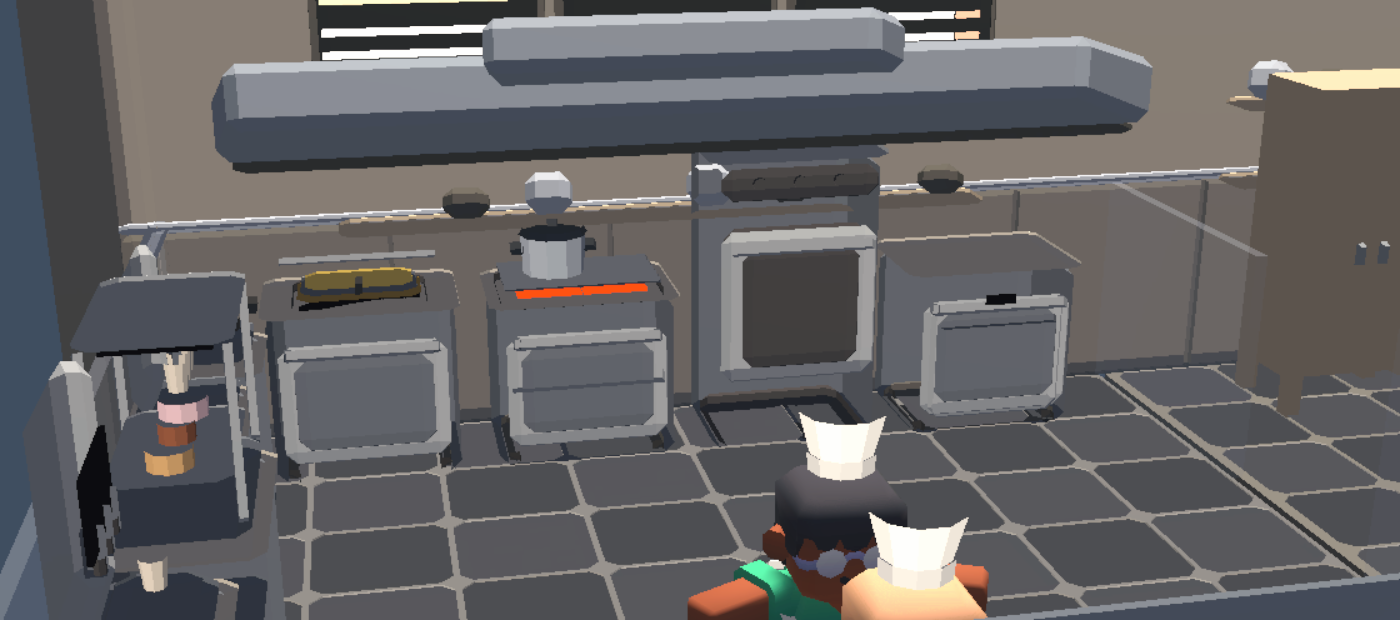
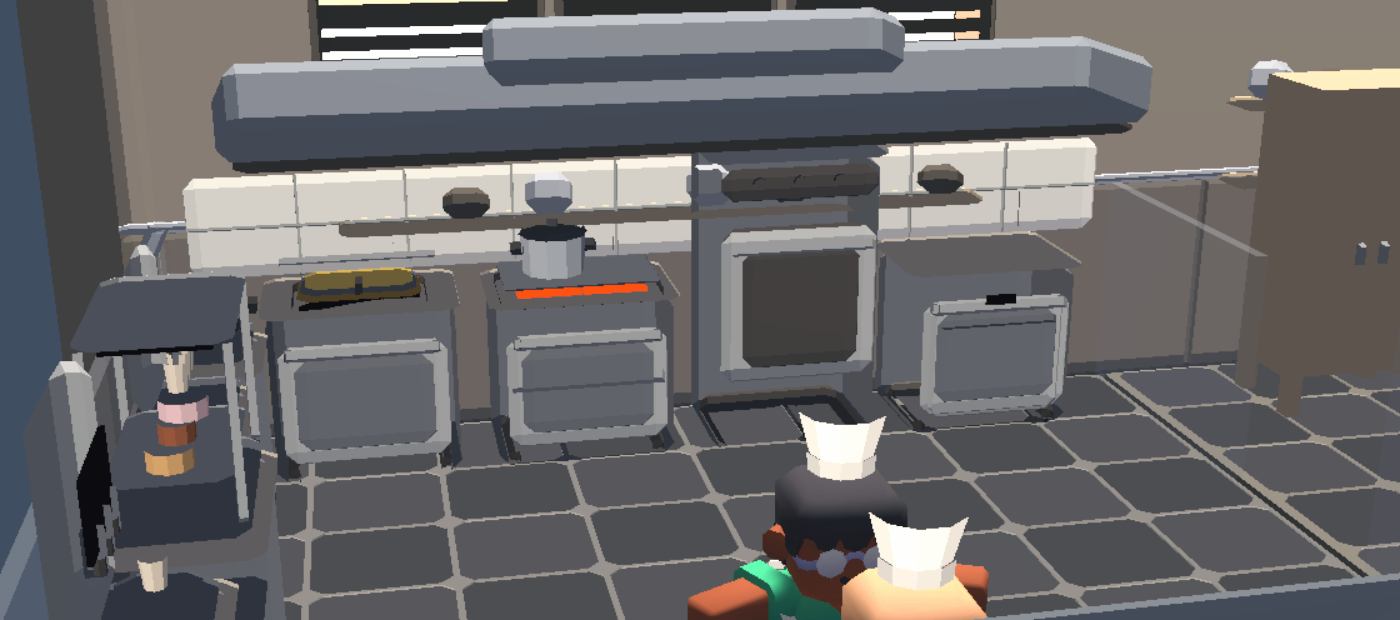
A cool appliance in front of a cool wall is one surface
docs/60 ended with the kitchen still the most monochrome room in the
building and named its own next step: the equipment is stainless in every
restaurant, so the thing that can separate the two kitchens is what stands
BEHIND it.

It also answers the defect that document ended on. The Turkish kitchen read
beautifully and the fast food one came back washed out WITH IDENTICAL
EQUIPMENT, because a cool grey appliance in front of a cool grey wall is one
surface - the Turkish room worked because its plaster and timber gave the
metal something to sit against. A tiled band behind the line gives the steel
an edge in both, and the two cuisines now differ behind the counter as well
as on it: a cool white tile with a grey joint against a warm cream one with
a sandy joint.

TWO RENDERERS AND 316 TRIANGLES, because the joints are LINES rather than
tiles. At 34 degrees from twenty metres a grid of thin strips and a grid of
a hundred and sixty separate squares are the same picture, and one of them
is a hundred and sixty boxes.

  THE FIRST VERSION FLOATED IN MID-AIR OVER THE SINKS. It was drawn in the
  wash room too, and the reason it could not be is a number in the view: the
  interior walls are 1.15 m (WallHeight), because a full-height wall would
  hide the front row from a 34 degree camera. The kitchen's back wall is the
  BUILDING's, at z = PlotD, and it is tall; the wash room's is the partition
  it shares with the kitchen, with the doorway cut through it. A band from
[…]

Changed region(s): [[0.1229, 0.2452, 0.4914, 0.4597], [0.6143, 0.2145, 0.7986, 0.3984]]

diff --git a/unity/Assets/Lokanta/Game/RestaurantView.Decor.cs b/unity/Assets/Lokanta/Game/RestaurantView.Decor.cs
@@ -80,6 +80,12 @@ namespace Lokanta.Game
 
             /// <summary>The tint of the outside; it is mixed into the background sky.</summary>
             public Color Sky;
+
+            /// <summary>The splashback tile behind the kitchen line.</summary>
+            public Color Splash;
+
+            /// <summary>Its joints.</summary>
+            public Color SplashJoint;
         }
 
         /// <summary>
@@ -188,6 +194,10 @@ namespace Lokanta.Game
                     SeamStep = 0.85f,
                     // The outside is warm too: a neighbourhood, dusty midday light.
                     Sky = new Color(0.86f, 0.74f, 0.56f),
+                    // A warm cream tile with a sandy joint: the glazed tile of
+                    // a neighbourhood kitchen, not a laboratory.
+                    Splash = new Color(0.871f, 0.824f, 0.741f),
+                    SplashJoint = new Color(0.678f, 0.616f, 0.518f),
                 };
             }
 
@@ -283,6 +293,11 @@ namespace Lokanta.Game
                 SeamStep = 1.15f,
                 // The outside is cold and urban: a main road, tarmac, glass.
                 Sky = new Color(0.66f, 0.75f, 0.88f),
+                // A cool white tile with a grey joint. This is the wipe-clean
+                // surface the fast food identity is built on, and it is the
+                // one place the room may be colder than its wall.
+                Splash = new Color(0.878f, 0.886f, 0.882f),
+                SplashJoint = new Color(0.639f, 0.659f, 0.667f),
             };
         }
 
@@ -506,6 +521,7 @@ namespace Lokanta.Game
             Backdrop(m, p, left, right, back);
             SkyBands(left, right, back);
             Planters(m, p, left, right);
+            Splashback(m, p, tables);
             KitchenHood(m, p, tables);
             ServiceCounter(m, glow, p, tables);
             TrayStation(m, glow, p, tables);
@@ -875,6 +891,81 @@ namespace Lokanta.Game
                     Quaternion.identity, p.Plant);
             m.Prism(5, 0.12f, 0.03f, 0.22f, new Vector3(x + 0.11f, 0.33f, z - 0.05f),
                     Quaternion.identity, p.Plant);
+        }
+
+        /// <summary>
+        /// THE TILED WALL BEHIND THE KITCHEN LINE.
+        ///
+        /// docs/60 finished with the kitchen still the most monochrome room
+        /// in the building, and named its own cheapest next step: the
+        /// equipment is stainless in every restaurant, so the thing that can
+        /// separate the two kitchens is what stands BEHIND it.
+        ///
+        /// It is also the answer to the defect that document ended on. The
+        /// Turkish kitchen read beautifully and the fast food one came back
+        /// washed out with identical equipment, because a cool grey appliance
+        /// in front of a cool grey wall is one surface. A tiled splashback
+        /// gives the steel an edge in both rooms, and it is the surface every
+        /// real kitchen has for exactly the reason this one needs it: the
+        /// wall behind a cooking line is not the wall of the room.
+        ///
+        /// It costs about 300 triangles for both rooms and no new renderer -
+        /// the Modeler merges it into the Decor mesh by colour - because the
+        /// joints are LINES rather than tiles. At 34 degrees from twenty
+        /// metres a grid of thin strips and a grid of separate squares are
+        /// the same picture, and one of them is a hundred and sixty boxes.
+        ///
+        /// It stops under the hood mouth (1.44 m, KitchenHood) so the two
+        /// never argue about the same band of wall.
+        ///
+        /// THE KITCHEN ONLY, AND THE FIRST VERSION DID THE WASH ROOM TOO.
+        ///
+        /// It came back floating in mid-air over the sinks, and the reason is
+        /// a number in this file: the interior walls are 1.15 m (WallHeight),
+        /// because a full-height wall would hide the front row from a 34
+        /// degree camera. The kitchen's back wall is the BUILDING's, at
+        /// z = PlotD, and it is tall; the wash room's is the partition it
+        /// shares with the kitchen - 1.15 m, with the doorway the user asked
+        /// for cut through it. A tiled band from 0.90 to 1.62 on that wall is
+        /// half a metre of tiles with nothing behind them and a doorway
+        /// running under them.
+        ///
+        /// Tiling it properly would mean capping at 1.15 and breaking around
+        /// the door, for a strip 25 cm tall that is mostly hidden behind the
+        /// sinks. The sinks read perfectly well against the plain partition.
+        /// </summary>
+        private void Splashback(Modeler m, Palette p, int tables)
+        {
+            for (int i = 0; i < RoomPlan.Rooms.Length; i++)
+            {
+                RoomPlan.Room r = RoomPlan.Rooms[i];
+                if (r.Name != "Kitchen") continue;
+                if (!RoomPlan.RoomOpen(in r, tables)) continue;
+
+                float z = r.Z0 + r.D - 0.035f;
+                float w = r.W - 0.30f;
+                if (w < 0.8f) continue;
+
+                // From just above a 0.92 m worktop to just under whatever is
+                // above it.
+                const float y0 = 0.90f;
+                const float y1 = 1.42f;
+                const float h = y1 - y0;
+
+                m.Box(new Vector3(r.CenterX, y0 + h * 0.5f, z),
+                      new Vector3(w, h, 0.04f), p.Splash);
+
+                int rows = Mathf.Max(2, Mathf.RoundToInt(h / 0.26f));
+                for (int k = 1; k < rows; k++)
+                    m.Box(new Vector3(r.CenterX, y0 + h * k / rows, z - 0.012f),
+                          new Vector3(w, 0.014f, 0.02f), p.SplashJoint);
+
+                int cols = Mathf.Max(3, Mathf.RoundToInt(w / 0.52f));
+                for (int k = 1; k < cols; k++)
+                    m.Box(new Vector3(r.CenterX - w * 0.5f + w * k / cols,
+                                      y0 + h * 0.5f, z - 0.012f),
+                          new Vector3(0.014f, h, 0.02f), p.SplashJoint);
+            }
         }
 
         /// THE EXTRACTOR HOOD: above the row of stoves.

diff --git a/docs/60-palette-and-light.md b/docs/60-palette-and-light.md
@@ -193,8 +193,40 @@ reasoning written next to it announces when its reasoning expires.
   The kick strip and the four materials help; a Turkish kitchen that is visibly
   a different SHAPE from a fast food one would help more.
 - The room badges read as floating progress bars in a wide shot.
-- **The kitchen is still the most monochrome room in the building.** Four
-  materials and a painted kick strip are an improvement on one grey, and it is
-  legible now where it was dim before - but stainless is stainless, and the
-  thing that would really separate the two kitchens is a different SHAPE, not
-  more paint. A tiled splashback behind the line is the cheapest next step.
+- **The two kitchens still hold the same shapes.** A tiled splashback (below)
+  and four materials are an improvement on one grey, but stainless is
+  stainless: what would really separate them is a different SHAPE, and that is
+  a modelling job rather than a palette one.
+
+## 7. The splashback, which was the next step and is now done
+
+The kitchen ended section 6 as the most monochrome room in the building, with
+its own cheapest next step named: the equipment is stainless in every
+restaurant, so what can separate the two kitchens is what stands BEHIND it.
+
+It also answers the defect this document ended on. The Turkish kitchen read
+beautifully and the fast food one came back washed out **with identical
+equipment**, because a cool grey appliance in front of a cool grey wall is one
+surface. A tiled band behind the line gives the steel an edge in both rooms,
+and the two cuisines now differ behind the counter as well as on it: a cool
+white tile with a grey joint against a warm cream one with a sandy joint.
+
+**It cost two renderers and 316 triangles**, because the joints are LINES
+rather than tiles. At 34 degrees from twenty metres a grid of thin strips and a
+grid of a hundred and sixty separate squares are the same picture, and one of
+them is a hundred and sixty boxes.
+
+### And the first version floated in mid-air over the sinks
+
+It was drawn in the wash room too, and came back as a band of tiles hanging
+over the sinks with nothing behind them. The reason is a number in the view:
+**the interior walls are 1.15 m** (`WallHeight`), because a full-height wall
+would hide the front row from a 34 degree camera. The kitchen's back wall is
+the BUILDING's, at `z = PlotD`, and it is tall. The wash room's is the
+partition it shares with the kitchen - 1.15 m, with the doorway the user asked
+for cut through it. A band from 0.90 to 1.62 on that wall is half a metre of
+tiles over nothing, with a door running underneath.
+
+Tiling it properly would mean capping at 1.15 and breaking around the door for
+a strip 25 cm tall that the sinks hide anyway. The splashback is the kitchen's,
+where there is a wall to tile.
